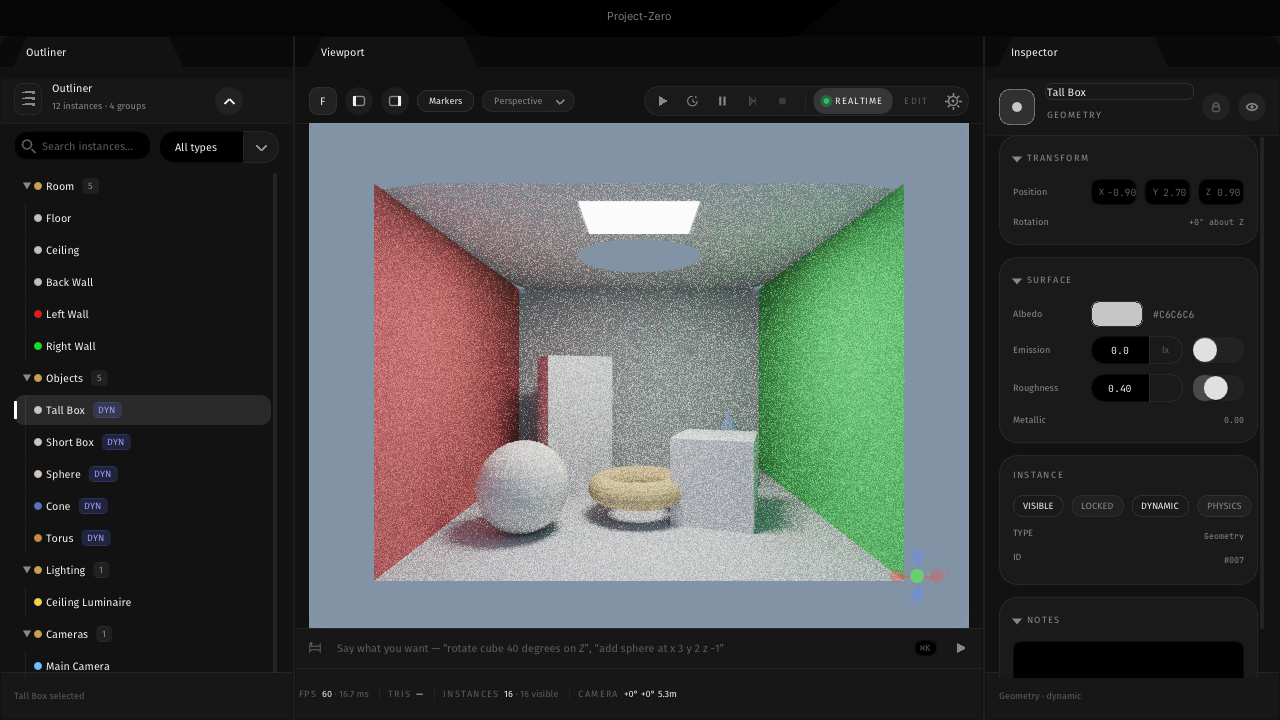
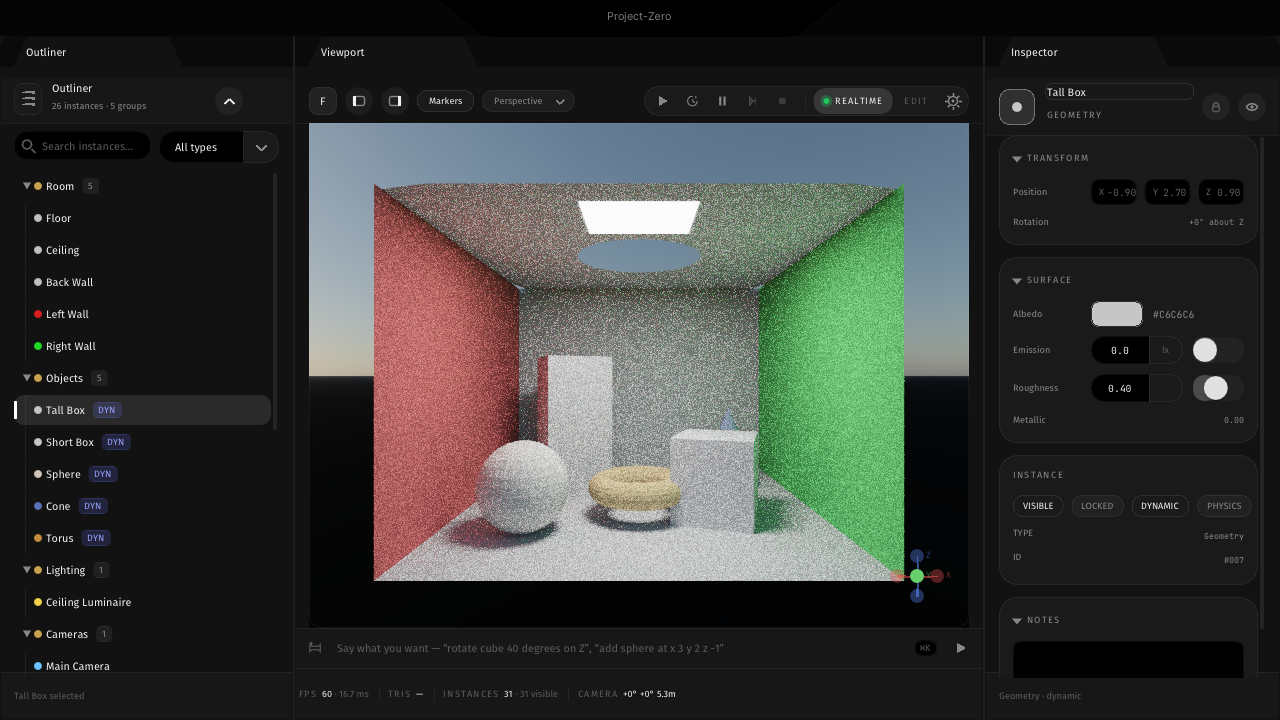
Show the celestial world in the editor preview
The editor sheets rendered a flat blue backdrop while the scene held a real
atmosphere. EditorPreview now takes the same CelestialSequence Project Zero
does, so what the preview shows is what the project renders rather than a
second sky configured by hand.

Both halves of the preview take it. The raster view gets it through ApplyTo, and
the CPU path tracer's escaped-ray branch - which was the same flat constant
{0.30, 0.42, 0.63} the raster used to carry - now integrates the atmosphere.
That branch is the GI-on half of the sky and it matters more than it looks: with
a real atmosphere an escaped ray is a LIGHT SAMPLE, the largest emitter in the
scene, and it applies at every bounce rather than only the primary. Bounce 0
draws the sky behind the geometry; bounces 1 and 2 are the indirect light coming
down out of it, which is exactly what a constant flattened.

The Celestial folder now appears in the outliner beside Room, Objects, Lighting
and Cameras - 14 entities with their tints and DYN badges, 26 instances across
5 groups.

Two ordering hazards found and fixed rather than worked around. The sky was
seated in the raster block, but the first TraceView runs about 120 lines
earlier, so the traced sheets rendered against an unprepared atmosphere - a
black sky in the GI view and a correct one in the raster view, from one state.
It is now seated at the point of use, where no call site can miss it.

And the preview's own quarantine fired on the sky. That gate forbids a SCENE ray
[…]

diff --git a/Scratchpad/EditorPreview.cpp b/Scratchpad/EditorPreview.cpp
@@ -20,6 +20,8 @@
 #include "Engine/GeometricRaster/VisibilityRaster.h"
 #include "Engine/DisplayPresentation/TypefaceRegistry.h"
 #include "Engine/DisplayPresentation/FidelityClassifier.h"
+#include "Engine/DisplayPresentation/CelestialTier.h"
+#include "Projects/Project-Zero/Source/CelestialSequence.h"
 
 #include <chrono>
 #include <cmath>
@@ -198,6 +200,48 @@ void CollectLumi(const Frontier::SceneStructure& Level, std::vector<LumiTri>& Lu
     }
 }
 
+//------------------------------------------------------------------------------------------------------------------------
+//                                                THE SKY THE PREVIEW SHOWS
+//------------------------------------------------------------------------------------------------------------------------
+
+// One celestial state for the preview, so the traced view and the raster view cannot show different weather.
+//    Filled from CelestialSequence exactly as Project Zero fills it — the point of the preview is to show what
+//    the project renders, not a second sky configured by hand here.
+Frontier::AtmosphereMedium SkyMedium{};
+Frontier::AtmosphereLight  SkyLight{};
+Frontier::TwilightSettings SkyTwilight{};
+float    SunElevationDegrees = 0.0f;
+uint32_t SkySamples      = 16u;
+uint32_t SkyLightSamples = 6u;
+
+// The preview's own world. Prepared once at the first use; the same defaults Project Zero starts with, so the
+//    sheet shows the weather somebody opening the editor would actually see.
+Frontier::ProjectZero::CelestialSequence PreviewSky;
+bool PreviewSkyReady = false;
+
+void PreparePreviewSky() noexcept
+{
+    if (PreviewSkyReady) return;
+    PreviewSky.Prepare();
+    // A late-afternoon sun rakes the box and makes the sky's contribution legible; noon overhead would light
+    //    the scene almost identically with or without an atmosphere, which would prove nothing.
+    PreviewSky.Observation.LocalHours = 16.4f;
+    const float Origin[3] = { 0.0f, 0.0f, 2.0f };
+    PreviewSky.Tick(0.0f, Origin, 0.0f);
+    PreviewSkyReady = true;
+}
+
+void SeatPreviewSky(const Frontier::ProjectZero::CelestialSequence& Sky, const Frontier::CelestialBudget& Budget) noexcept
+{
+    SkyMedium   = Sky.Medium;
+    SkyLight    = Sky.Light;
+    SkyTwilight = Sky.Twilight;
+    for (int C = 0; C < 3; ++C) SkyLight.Direction[C] = Sky.Frame().Sun.Direction[C];
+    SunElevationDegrees = Sky.Frame().Sun.Elevation;
+    SkySamples      = Budget.AtmosphereSamples;
+    SkyLightSamples = Budget.AtmosphereLightSamples;
+}
+
 // Next-event estimation over the level's own emissive triangles, two diffuse bounces, sky through the gaps.
 void TraceView(const Frontier::SceneStructure& Level, const Frontier::TraversalIndex& Traversal,
                const Frontier::Vector3& Eye, const Frontier::Vector3& Forward,
@@ -208,6 +252,16 @@ void TraceView(const Frontier::SceneStructure& Level, const Frontier::TraversalI
     using namespace Frontier;
     const auto& Flat    = Level.QueryFlatTriangles();
     const auto& Records = Level.QueryMaterials().QueryRecords();
+
+    // ⚠ Seated here rather than at the caller. The first TraceView runs well before the raster block that also
+    //    wants the sky, so seating it there left the traced sheets rendering against an unprepared atmosphere —
+    //    a black sky in the GI view and a correct one in the raster view, from the same state. Seating at the
+    //    point of use makes that impossible.
+    PreparePreviewSky();
+    {
+        const FidelityCriteria Tier = FidelityClassifier{}.ConstructCriteria(FidelityCategory::StandardFidelity);
+        SeatPreviewSky(PreviewSky, CelestialTier::BudgetFor(Tier));
+    }
 
     std::vector<LumiTri> Lumi;
     CollectLumi(Level, Lumi);
@@ -284,8 +338,26 @@ void TraceView(const Frontier::SceneStructure& Level, const Frontier::TraversalI
                     float Dist = 0.0f; uint32_t Prim = 0u;
                     if (!TraceRay(O, D, Dist, Prim))
                     {
-                        constexpr float Miss[3] = { 0.30f, 0.42f, 0.63f };
-                        Path[0] += Thr[0] * Miss[0]; Path[1] += Thr[1] * Miss[1]; Path[2] += Thr[2] * Miss[2];
+                        // ⚠ THIS IS THE GI-ON HALF OF THE SKY, and it is the whole reason a celestial system has
+                        //    to reach the tracer rather than only the raster. A flat constant here was fine while
+                        //    the sky was a backdrop: an escaped ray took one blue number and stopped. With a real
+                        //    atmosphere the escaped ray is a LIGHT SAMPLE — the sky is the scene's largest
+                        //    emitter, and it is what makes an unlit face take on the colour of the air above it.
+                        //
+                        //    It applies at every bounce, not just the primary: bounce 0 draws the sky behind the
+                        //    geometry, bounces 1 and 2 are the indirect light coming down out of it, which is
+                        //    exactly the contribution the old constant flattened.
+                        const AtmosphereSample Sky = AtmosphereModel::Integrate(
+                            SkyMedium, SkyLight, 2.0f, D, SkySamples, SkyLightSamples);
+                        float Escaped[3] = { Sky.Radiance[0], Sky.Radiance[1], Sky.Radiance[2] };
+                        float Glow[3];
+                        const float Bearing = std::atan2(D[0], D[1]);
+                        const float SunBearing = std::atan2(SkyLight.Direction[0], SkyLight.Direction[1]);
+                        float Delta = std::fabs(Bearing - SunBearing);
+                        if (Delta > 3.14159265f) Delta = 6.2831853f - Delta;
+                        Twilight::Evaluate(D, SunElevationDegrees, Delta, SkyTwilight, Glow);
+                        for (int C = 0; C < 3; ++C) Escaped[C] += Glow[C];
+                        Path[0] += Thr[0] * Escaped[0]; Path[1] += Thr[1] * Escaped[1]; Path[2] += Thr[2] * Escaped[2];
                         break;
                     }
                     float P[3], N[3];
@@ -429,6 +501,10 @@ int main()
     EditorFeedSequence Feed;
     EditorInstance Rows[kMaxEditorInstances] = {};
     uint32_t RowCount = Feed.FillRoster(Rows, Level);
+    // The celestial entities, exactly as GameExecution appends them — the preview's whole purpose is to show
+    //    what the project shows, so the roster is built the same way rather than described a second time.
+    PreparePreviewSky();
+    RowCount += PreviewSky.AppendRoster(Rows, RowCount, Frontier::kMaxEditorInstances);
     std::printf("[Preview] roster: %u rows over %zu placements\n", RowCount, Level.QueryPlacements().size());
 
     // The game's own boot camera for the Cornell level (see GameExecution's camera branch).
@@ -673,6 +749,18 @@ int main()
         std::printf("[Preview] shadows: %s, %u x %u map, %u tap kernel\n",
                     ShadowTechniqueLabel(Criteria.ShadowTechnique), Criteria.ShadowMapSide,
                     Criteria.ShadowMapSide, Criteria.ShadowFilterTapCount);
+
+        // The sky, from the same tier and through the same sequence Project Zero uses. Both preview views take
+        //    it: the raster directly, and the tracer through SeatPreviewSky, so the traced and rastered halves
+        //    of this sheet cannot disagree about the weather.
+        PreparePreviewSky();
+        const CelestialBudget Sky = CelestialTier::BudgetFor(Criteria);
+        PreviewSky.ApplyTo(Raster, Sky);
+        SeatPreviewSky(PreviewSky, Sky);
+        std::printf("[Preview] sky: sun %+.2f deg, %u x %u atmosphere samples, cloud %s\n",
+                    static_cast<double>(PreviewSky.Frame().Sun.Elevation),
+                    Sky.AtmosphereSamples, Sky.AtmosphereLightSamples,
+                    PreviewSky.Cloud.Enabled ? "on" : "off");
     }
     const auto RasterStart = std::chrono::steady_clock::now();
     double RasterLum = 0.0;
